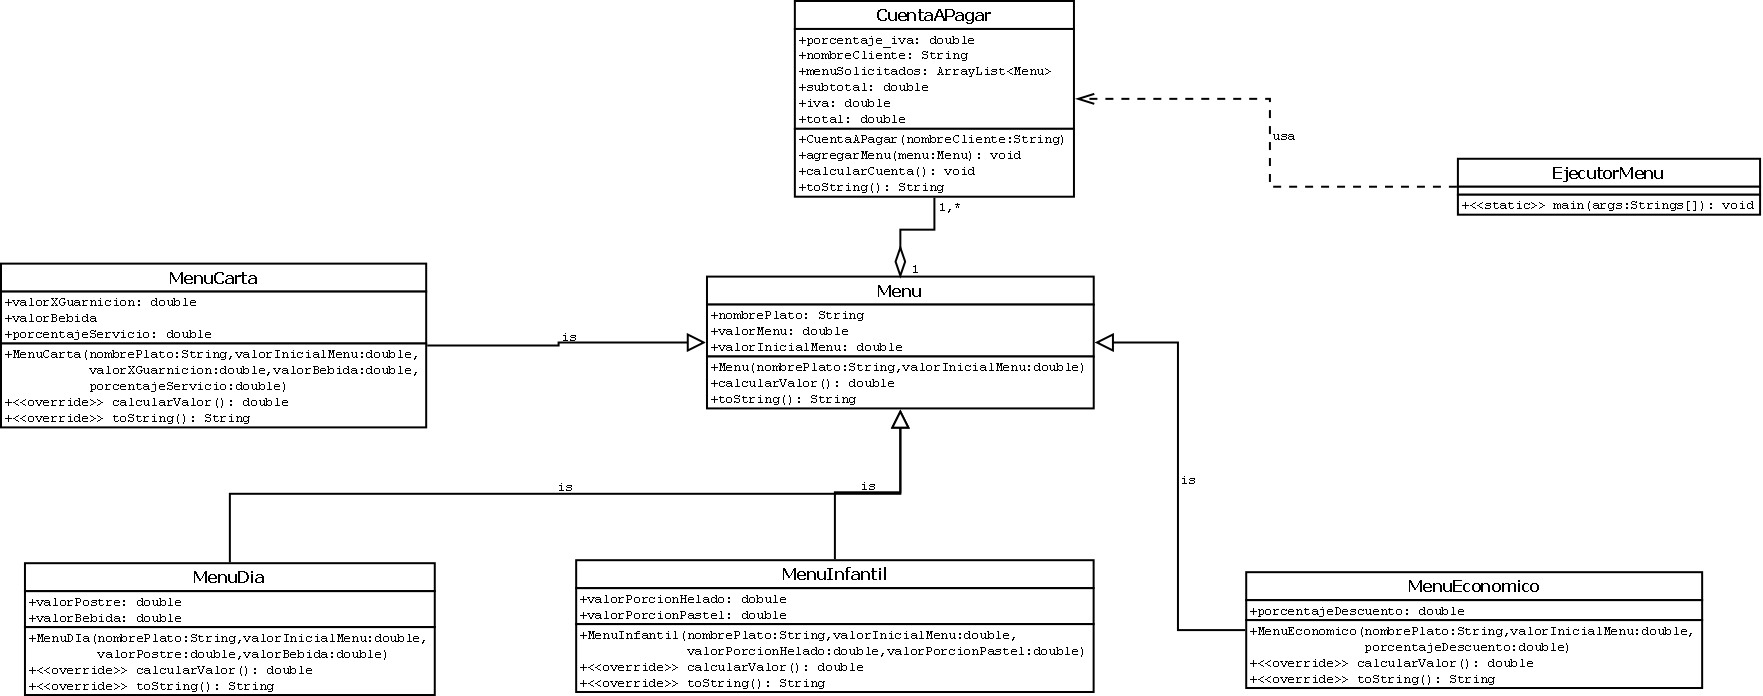
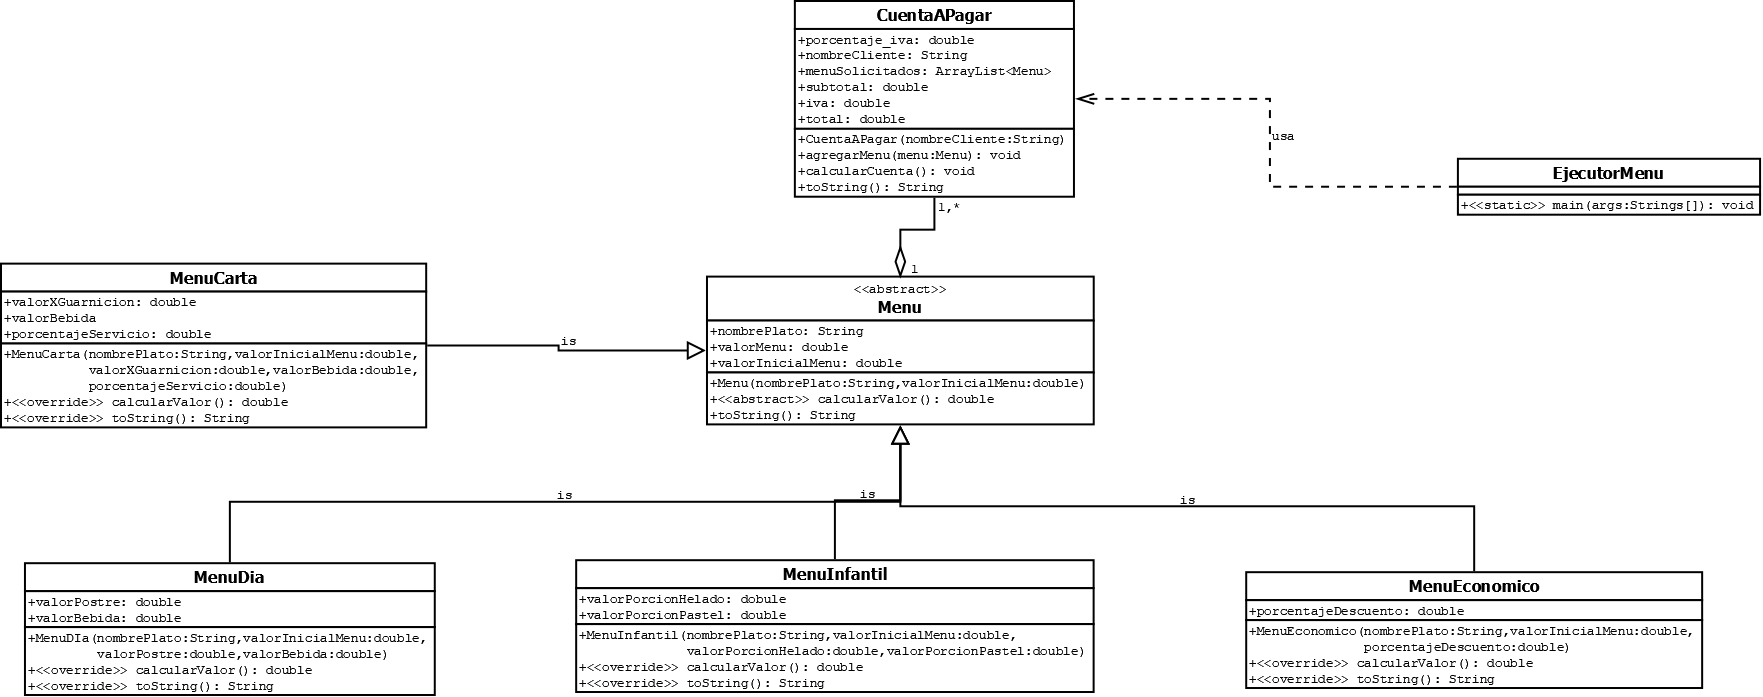
Taller 8 completo

diff --git a/Solucion_Codigo/Proyect_Taller08/src/Problema_3_EjecutorFutbol.java b/Solucion_Codigo/Proyect_Taller08/src/Problema_3_EjecutorFutbol.java
@@ -1,0 +1,204 @@
+
+import java.util.ArrayList;
+
+/*
+Se desea realizar una aplicación que permita a un periodista deportivo llevar las estadísticas de los jugadores de un equipo de fútbol para poder valorar su actuación en el partido.
+
+Cada jugador se identifica por su nombre, número de dorsal y Rut
+
+Los jugadores se dividen en tres categorías:
+
+Atacantes
+Defensores
+Porteros
+Para todos los jugadores se desea contabilizar el número de goles marcados, además en el caso de los jugadores de campo se contabilizan los pases realizados con éxito y el número de balones recuperados. En el caso de los porteros se contabilizan las atajadas realizadas.
+
+Valoración del jugador
+Cálculo base para todos los jugadores:
+
+valor_goles = goles * 30
+Valor adicional según tipo de jugador:
+
+Atacantes
+
+valor += recuperaciones * 3
+Defensores
+
+valor += recuperaciones * 4
+Porteros
+
+valor += atajadas * 5
+ */
+
+/**
+ * @author Joan Salinas
+ * @version 1.0
+ */
+
+abstract class Jugador {
+    public String nombre;
+    public int dorsal;
+    public int goles;
+ 
+    public Jugador(String nombre, int dorsal) {
+        this.nombre = nombre;
+        this.dorsal = dorsal;
+    }
+ 
+    public abstract double calcularValoracion();
+ 
+    public double calcularValorBase() {
+        return goles * 30;
+    }
+ 
+    public void registrarGol() {
+        goles++;
+    }
+ 
+    @Override
+    public String toString() {
+        return String.format("%s [dorsal=%d, goles=%d, valoracion=%.2f]",
+                nombre, dorsal,goles, calcularValoracion());
+    }
+}
+ 
+abstract class JugadorDeCampo extends Jugador {
+    public int pasesExitosos;
+    public int recuperaciones;
+ 
+    public JugadorDeCampo(String nombre, int dorsal) {
+        super(nombre, dorsal);
+    }
+ 
+    public void registrarPaseExitoso() {
+        pasesExitosos++;
+    }
+ 
+    public void registrarRecuperacion() {
+        recuperaciones++;
+    }
+}
+ 
+class Atacante extends JugadorDeCampo {
+ 
+    public Atacante(String nombre, int dorsal) {
+        super(nombre, dorsal);
+    }
+ 
+    @Override
+    public double calcularValoracion() {
+        return calcularValorBase() + recuperaciones * 3;
+    }
+ 
+    @Override
+    public String toString() {
+        return "Atacante{" + "pasesExitosos=" + pasesExitosos + ", recuperaciones=" + recuperaciones
+                + "} " + super.toString();
+    }
+}
+ 
+class Defensor extends JugadorDeCampo {
+ 
+    public Defensor(String nombre, int dorsal) {
+        super(nombre, dorsal);
+    }
+ 
+    @Override
+    public double calcularValoracion() {
+        return calcularValorBase() + recuperaciones * 4;
+    }
+ 
+    @Override
+    public String toString() {
+        return "Defensor{" + "pasesExitosos=" + pasesExitosos + ", recuperaciones=" + recuperaciones
+                + "} " + super.toString();
+    }
+}
+ 
+class Portero extends Jugador {
+    public int atajadas;
+ 
+    public Portero(String nombre, int dorsal) {
+        super(nombre, dorsal);
+    }
+ 
+    public void registrarAtajada() {
+        atajadas++;
+    }
+ 
+    @Override
+    public double calcularValoracion() {
+        return calcularValorBase() + atajadas * 5;
+    }
+ 
+    @Override
+    public String toString() {
+        return "Portero{" + "atajadas=" + atajadas + "} " + super.toString();
+    }
+}
+
+class Equipo {
+    public String nombreEquipo;
+    public ArrayList<Jugador> jugadores;
+ 
+    public Equipo(String nombreEquipo) {
+        this.nombreEquipo = nombreEquipo;
+        this.jugadores = new ArrayList<>();
+    }
+ 
+    public void agregarJugador(Jugador jugador) {
+        jugadores.add(jugador);
+    }
+ 
+    @Override
+    public String toString() {
+        String detalleJugadores = "";
+        for (Jugador jugador : jugadores) {
+            detalleJugadores += jugador + "\n";
+        }
+        return "Equipo{" + "nombreEquipo=" + nombreEquipo + "}\n" + "jugadores=\n" + detalleJugadores;
+    }
+}
+public class Problema_3_EjecutorFutbol {
+    public static void main(String[] args) {
+        Equipo equipo = new Equipo("Seleccion Ecuatoriana");
+ 
+        Atacante atacante = new Atacante("Kendry Paez", 10);
+        atacante.registrarGol();
+        atacante.registrarGol();
+        atacante.registrarPaseExitoso();
+        atacante.registrarRecuperacion();
+        atacante.registrarRecuperacion();
+ 
+        Defensor defensor = new Defensor("William Pacho", 51);
+        defensor.registrarGol();
+        defensor.registrarPaseExitoso();
+        defensor.registrarPaseExitoso();
+        defensor.registrarRecuperacion();
+        defensor.registrarRecuperacion();
+        defensor.registrarRecuperacion();
+ 
+        Portero portero = new Portero("Hernan Galindez", 1);
+        portero.registrarAtajada();
+        portero.registrarAtajada();
+        portero.registrarAtajada();
+ 
+        equipo.agregarJugador(atacante);
+        equipo.agregarJugador(defensor);
+        equipo.agregarJugador(portero);
+ 
+        System.out.println(equipo);
+    }
+}
+/**
+run-single:
+Equipo{nombreEquipo=Seleccion Ecuatoriana}
+jugadores=
+Atacante{pasesExitosos=1, recuperaciones=2} Kendry Paez [dorsal=10, goles=2, valoracion=66.00]
+Defensor{pasesExitosos=2, recuperaciones=3} William Pacho [dorsal=51, goles=1, valoracion=42.00]
+Portero{atajadas=3} Hernan Galindez [dorsal=1, goles=0, valoracion=15.00]
+
+BUILD SUCCESSFUL (total time: 0 seconds)
+
+
+ */

diff --git a/Solucion_Codigo/Proyect_Taller08/src/Problema_2_EjecutorMenu.java b/Solucion_Codigo/Proyect_Taller08/src/Problema_2_EjecutorMenu.java
@@ -208,3 +208,14 @@ public class Problema_2_EjecutorMenu {
         System.out.println(cuenta);
     }
 }
+/**
+run-single:
+CuentaPorPagar{nombreCliente=Maria Fernandez}
+menusSolicitados=
+MenuALaCarta{guarnicion=$1.2, bebida=$1.5, servicio=10.0%} Lomo salteado [valorInicial=$8.50, valorFinal=$12.05]
+MenuDelDia{postre=$1.0, bebida=$1.0} Seco de Pollo [valorInicial=$4.50, valorFinal=$6.50]
+MenuInfantil{helado=$0.75, pastel=$0.75} Nuggets de Pollo [valorInicial=$3.00, valorFinal=$4.50]
+MenuEconomico{descuento=15.0%} Sopa de arroz [valorInicial=$5.00, valorFinal=$4.25]
+subtotal=$27.30, iva=$4.10, totalPagar=$31.39
+BUILD SUCCESSFUL (total time: 0 seconds)
+ */